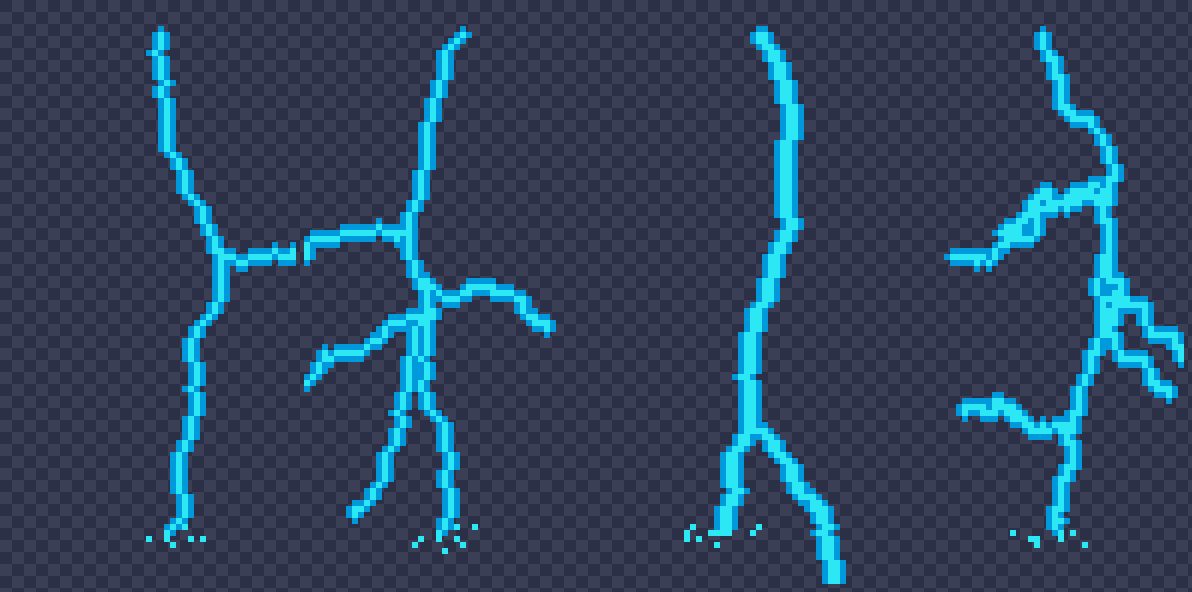
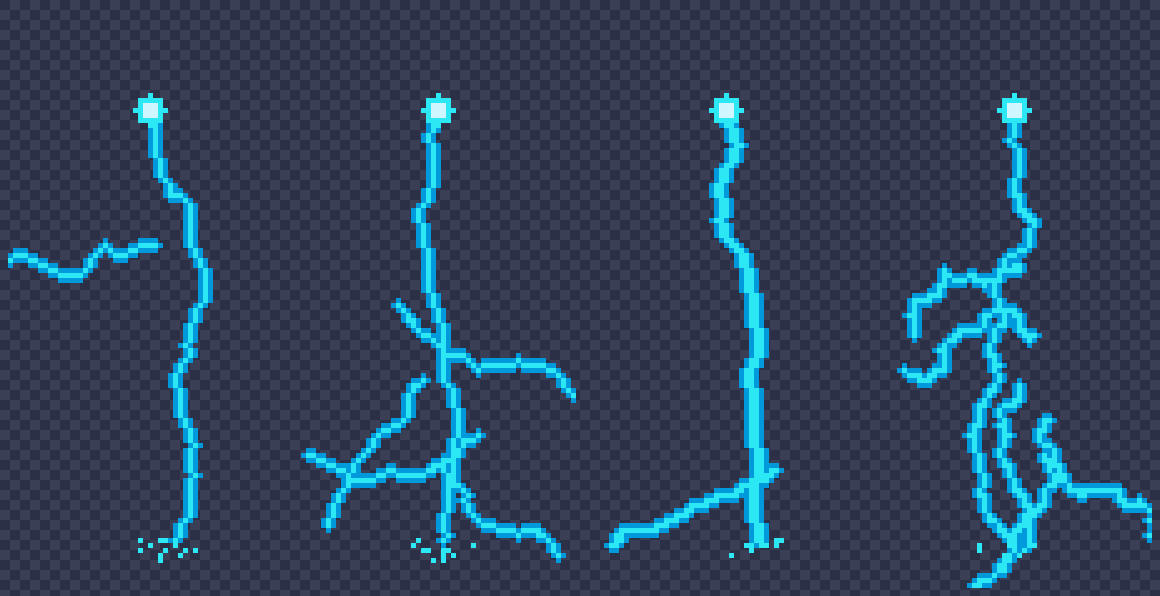
Add energy-ball blast intro to lightning strikes (charge -> boom -> bolt)

Changed region(s): [[0.0, 0.0304, 0.4966, 0.9426], [0.7759, 0.0304, 1.0, 1.0], [0.5276, 0.0304, 0.7138, 1.0]]

diff --git a/lightning-strikes.html b/lightning-strikes.html
@@ -3,7 +3,7 @@
 <head>
 <meta charset="utf-8" />
 <meta name="viewport" content="width=device-width, initial-scale=1" />
-<title>Lightning Strikes — 4 Procedural Options (Transparent) | pixel-art-meta</title>
+<title>Lightning Strikes — Energy-Blast + 4 Procedural Options | pixel-art-meta</title>
 <style>
   html,body{margin:0;min-height:100%;color:#aeb8d0;font:13px ui-monospace,Menlo,Consolas,monospace;
     background:#2a2f45;
@@ -15,23 +15,23 @@
   p.sub{text-align:center;margin:0 0 14px;color:#7e89a8}
   .row{display:flex;gap:18px;justify-content:center;align-items:flex-end;flex-wrap:wrap;padding:8px 16px 28px}
   .cell{display:flex;flex-direction:column;align-items:center;gap:8px}
-  canvas{ image-rendering:pixelated; image-rendering:crisp-edges; height:62vh; width:auto;
+  canvas{ image-rendering:pixelated; image-rendering:crisp-edges; height:66vh; width:auto;
     filter:drop-shadow(0 0 1px #0008); }
   .lab{color:#9fe3ff;letter-spacing:1px}
   .lab b{color:#fff}
 </style>
 </head>
 <body>
-  <h1>LIGHTNING STRIKES — 4 PROCEDURAL OPTIONS</h1>
-  <p class="sub">transparent background · every strike is a freshly generated shape · same #0099DB / #2CE8F5 palette, 1px style</p>
+  <h1>LIGHTNING STRIKES — ENERGY-BLAST INTRO + 4 PROCEDURAL OPTIONS</h1>
+  <p class="sub">charge &rarr; boom &rarr; the bolt erupts from the blast · unique shape every strike · transparent · #0099DB / #2CE8F5</p>
   <div class="row" id="row"></div>
 
 <script>
-/* Fully procedural pixel lightning. Each bolt is generated by midpoint
-   displacement (unique every strike), rasterised to 1px, then animated with
-   the tutorial recipe: build-up strobe -> flash -> glow hold -> fade.
-   Transparent canvas so you can rotate/place each in your comp. */
-const GW=48, GH=96, UNIT=80;
+/* Procedural pixel lightning with an energy-ball blast intro.
+   Sequence: a charged ball swells -> it detonates (expanding ring + radial
+   sparks) -> a midpoint-displacement bolt erupts from that origin -> flash ->
+   glow -> fragment fade. Transparent canvas; unique bolt each strike. */
+const GW=56, GH=116, OX=28, OY=20, UNIT=85;
 const BOLT=[0x00,0x99,0xDB], BRIGHT=[0x2C,0xE8,0xF5], WHITE=[0xCF,0xF6,0xFF];
 
 const OPTS=[
@@ -41,9 +41,11 @@ const OPTS=[
   {id:'D', name:'Wild',   disp:0.28, detail:7, branches:5, blen:0.30, thick:1},
 ];
 const SEQ=[
-  ['rev',0.34,2],['empty',0,1],['rev',0.66,2],['empty',0,1],['rev',1.0,2],['empty',0,1],
-  ['rev',1.0,1],['flash',0,1],['glow',1.0,2],['glow',1.0,2],['rev',1.0,1],
-  ['fade',0.6,1],['fade',0.3,1],['fade',0.12,1],['empty',0,7],
+  ['ball',0.45,2],['ball',0.8,2],['ball',1.0,2],          // charge up
+  ['burst',0.18,1],['burst',0.5,1],['burst',0.85,1],       // BOOM
+  ['rev',0.4,1],['rev',0.75,1],['rev',1.0,1],              // bolt erupts
+  ['flash',0,1],['glow',1.0,2],['glow',1.0,2],['rev',1.0,1],
+  ['fade',0.6,1],['fade',0.3,1],['fade',0.12,1],['empty',0,8],
 ];
 
 /* ---- geometry ---------------------------------------------------------- */
@@ -65,51 +67,63 @@ function raster(poly){ const out=[]; for(let i=0;i<poly.length-1;i++){ const a=p
   for(const p of seg){ if(!out.length||out[out.length-1][0]!==p[0]||out[out.length-1][1]!==p[1]) out.push(p); } } return out; }
 
 function genBolt(opt){
-  const sx=GW/2+(Math.random()*6-3), sy=4, ex=GW/2+(Math.random()*16-8), ey=GH-10;
-  const disp0=GW*opt.disp;
-  const mainPoly=displace([sx,sy],[ex,ey],disp0,opt.detail);
+  const ex=GW/2+(Math.random()*20-10), ey=GH-10, disp0=GW*opt.disp;
+  const mainPoly=displace([OX,OY],[ex,ey],disp0,opt.detail);
   let pts=raster(mainPoly);
   for(let bI=0;bI<opt.branches;bI++){
-    const t=0.2+Math.random()*0.65, vi=(t*(mainPoly.length-1))|0;
+    const t=0.25+Math.random()*0.6, vi=(t*(mainPoly.length-1))|0;
     const a=mainPoly[vi], b=mainPoly[Math.min(mainPoly.length-1,vi+1)];
     const ang=Math.atan2(b[1]-a[1],b[0]-a[0]) + (Math.random()<0.5?-1:1)*(0.5+Math.random()*0.6);
     const ln=opt.blen*GH*(0.6+Math.random()*0.5);
-    const tip=[a[0]+Math.cos(ang)*ln, a[1]+Math.sin(ang)*ln];
-    pts=pts.concat(raster(displace(a,tip,disp0*0.6,Math.max(3,opt.detail-1))));
+    pts=pts.concat(raster(displace(a,[a[0]+Math.cos(ang)*ln,a[1]+Math.sin(ang)*ln],disp0*0.6,Math.max(3,opt.detail-1))));
   }
   if(opt.thick>=2){ const ex2=[]; for(const p of pts) ex2.push([p[0]+1,p[1]]); pts=pts.concat(ex2); }
-  // spray at the strike point
-  const spray=[]; const ns=7+(Math.random()*5|0);
+  const spray=[], ns=7+(Math.random()*5|0);
   for(let i=0;i<ns;i++){ const a=Math.random()*Math.PI, r=1+Math.random()*5;
     spray.push([Math.round(ex+Math.cos(a)*r*1.3), Math.round(ey+Math.abs(Math.sin(a))*r*0.7)]); }
-  // clip + dedupe + order by y (for the draw-on reveal)
   const seen=new Set(), main=[];
-  pts.filter(p=>p[0]>=0&&p[0]<GW&&p[1]>=0&&p[1]<GH)
-     .sort((a,b)=> a[1]-b[1] || a[0]-b[0])
+  pts.filter(p=>p[0]>=0&&p[0]<GW&&p[1]>=0&&p[1]<GH).sort((a,b)=> a[1]-b[1]||a[0]-b[0])
      .forEach(p=>{ const k=p[0]+','+p[1]; if(!seen.has(k)){ seen.add(k); main.push(p); } });
   return { main, spray: spray.filter(p=>p[0]>=0&&p[0]<GW&&p[1]>=0&&p[1]<GH) };
 }
-
 function edges(pts, rad){ const s=new Set(pts.map(p=>p[0]+','+p[1])), out=new Set(), res=[];
   for(const [x,y] of pts) for(let dx=-rad;dx<=rad;dx++) for(let dy=-rad;dy<=rad;dy++){
     if((dx||dy)===0||Math.abs(dx)+Math.abs(dy)>rad) continue; const k=(x+dx)+','+(y+dy);
     if(!s.has(k)&&!out.has(k)){ out.add(k); res.push([x+dx,y+dy]); } } return res; }
 
-/* ---- per-canvas strike state ------------------------------------------ */
+/* ---- per-canvas strike ------------------------------------------------- */
 function makeStrike(opt){
   const cvs=document.createElement('canvas'); cvs.width=GW; cvs.height=GH;
   const ctx=cvs.getContext('2d'); ctx.imageSmoothingEnabled=false;
   const buf=ctx.createImageData(GW,GH);
   let bolt=genBolt(opt), idx=0, stepStart=0, composed=false;
-  function put(pts,c,a){ const d=buf.data; for(const [x,y] of pts){ if(x<0||y<0||x>=GW||y>=GH)continue;
-    const i=(y*GW+x)*4; d[i]=c[0];d[i+1]=c[1];d[i+2]=c[2];d[i+3]=a===undefined?255:a; } }
+  function put(pts,c){ const d=buf.data; for(const [x,y] of pts){ if(x<0||y<0||x>=GW||y>=GH)continue;
+    const i=(y*GW+x)*4; d[i]=c[0];d[i+1]=c[1];d[i+2]=c[2];d[i+3]=255; } }
+  function core(r){ const p=[]; for(let y=-r;y<=r;y++)for(let x=-r;x<=r;x++){ const d=Math.hypot(x,y);
+    if(d<=r) put([[OX+x,OY+y]], d<r*0.5?WHITE:BRIGHT); } }
   function compose(step){
     buf.data.fill(0);
     const [k,arg]=step, full=bolt.main.concat(bolt.spray);
     if(k==='empty') return;
-    if(k==='rev'){ put(arg>=1?full:bolt.main.slice(0,(bolt.main.length*arg)|0), BOLT); }
-    else if(k==='glow'){ put(edges(bolt.main,1),BOLT); put(full,BRIGHT); }
-    else if(k==='flash'){ put(edges(bolt.main,2),BOLT,150); put(edges(bolt.main,1),BRIGHT); put(full,WHITE); }
+    if(k==='ball'){
+      const r=3+arg*7;
+      for(let y=-r-2;y<=r+2;y++) for(let x=-r-2;x<=r+2;x++){ const d=Math.hypot(x,y);
+        if(d>r){ if(d<r+2 && Math.random()<0.3*(1-(d-r)/2)) put([[OX+x,OY+y]],BRIGHT); continue; }
+        if(d>r*0.8 && Math.random()<(d-r*0.8)/(r*0.2+0.01)*0.6) continue;
+        put([[OX+x,OY+y]], d<r*0.38?WHITE : d<r*0.72?BRIGHT : BOLT); }
+      put([[OX,OY]],WHITE);
+    } else if(k==='burst'){
+      const R=5+arg*16, th=Math.max(1,(3*(1-arg))|0)+1;
+      for(let deg=0;deg<360;deg+=3){ const a=deg*Math.PI/180;
+        for(let t=0;t<th;t++){ const rr=R-t; put([[Math.round(OX+Math.cos(a)*rr),Math.round(OY+Math.sin(a)*rr)]], t===0?WHITE:BRIGHT); } }
+      for(let kk=0;kk<11;kk++){ const a=kk*(2*Math.PI/11)+(Math.random()*0.5-0.25);
+        const r0=R*0.55, r1=R+2+Math.random()*4, seg=[];
+        line(Math.round(OX+Math.cos(a)*r0),Math.round(OY+Math.sin(a)*r0),Math.round(OX+Math.cos(a)*r1),Math.round(OY+Math.sin(a)*r1),seg);
+        seg.forEach((p,i)=> put([p], i===seg.length-1?WHITE:BRIGHT)); }
+      core(Math.max(1,(5*(1-arg))|0));
+    } else if(k==='rev'){ put(arg>=1?full:bolt.main.slice(0,(bolt.main.length*arg)|0), BOLT); core(3); }
+    else if(k==='glow'){ put(edges(bolt.main,1),BOLT); put(full,BRIGHT); core(3); }
+    else if(k==='flash'){ put(edges(bolt.main,2),BOLT); put(edges(bolt.main,1),BRIGHT); put(full,WHITE); core(4); }
     else if(k==='fade'){ put(full.filter(()=>Math.random()<arg),BOLT); }
   }
   return { cvs, tick(ts){ if(!stepStart) stepStart=ts; const step=SEQ[idx];
